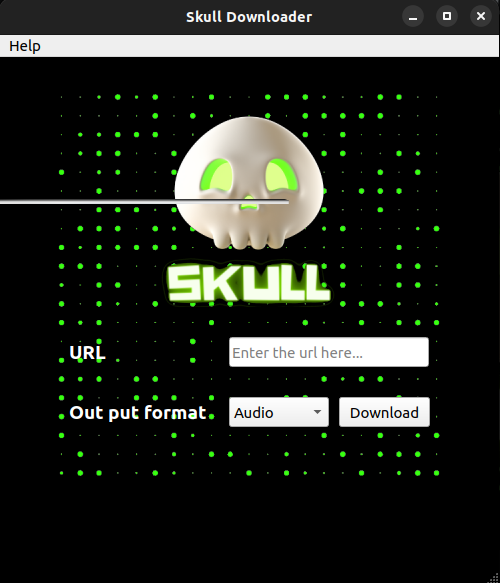
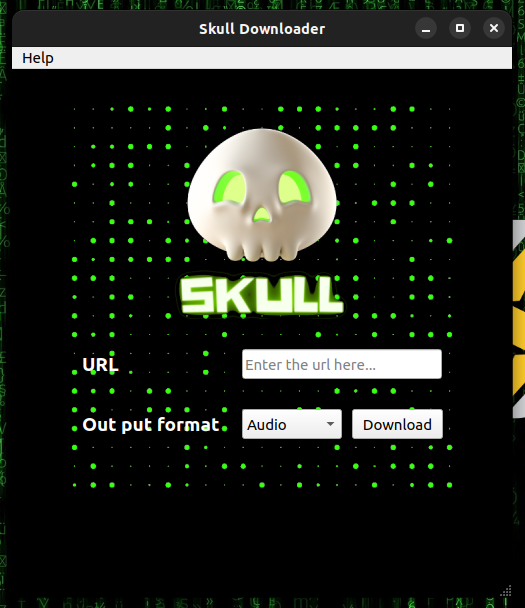
Adding an app screen shot

diff --git a/README.md b/README.md
@@ -5,6 +5,8 @@
 1) ```curl -L https://github.com/dogaegeozden/skull_downloader/releases/download/Download/skull-downloader.deb -o skull-downloader.deb```
 2) ```sudo dpkg -i skull-downloader.deb```
 
+![AppScreenShot](https://raw.githubusercontent.com/dogaegeozden/skull_downloader/main/app_screenshot.png)
+
 ## HELP
 
 Skull downloader is downloading media from YouTube using pytube package. And, there is a problem with download it may turn back to normal couple days later.
